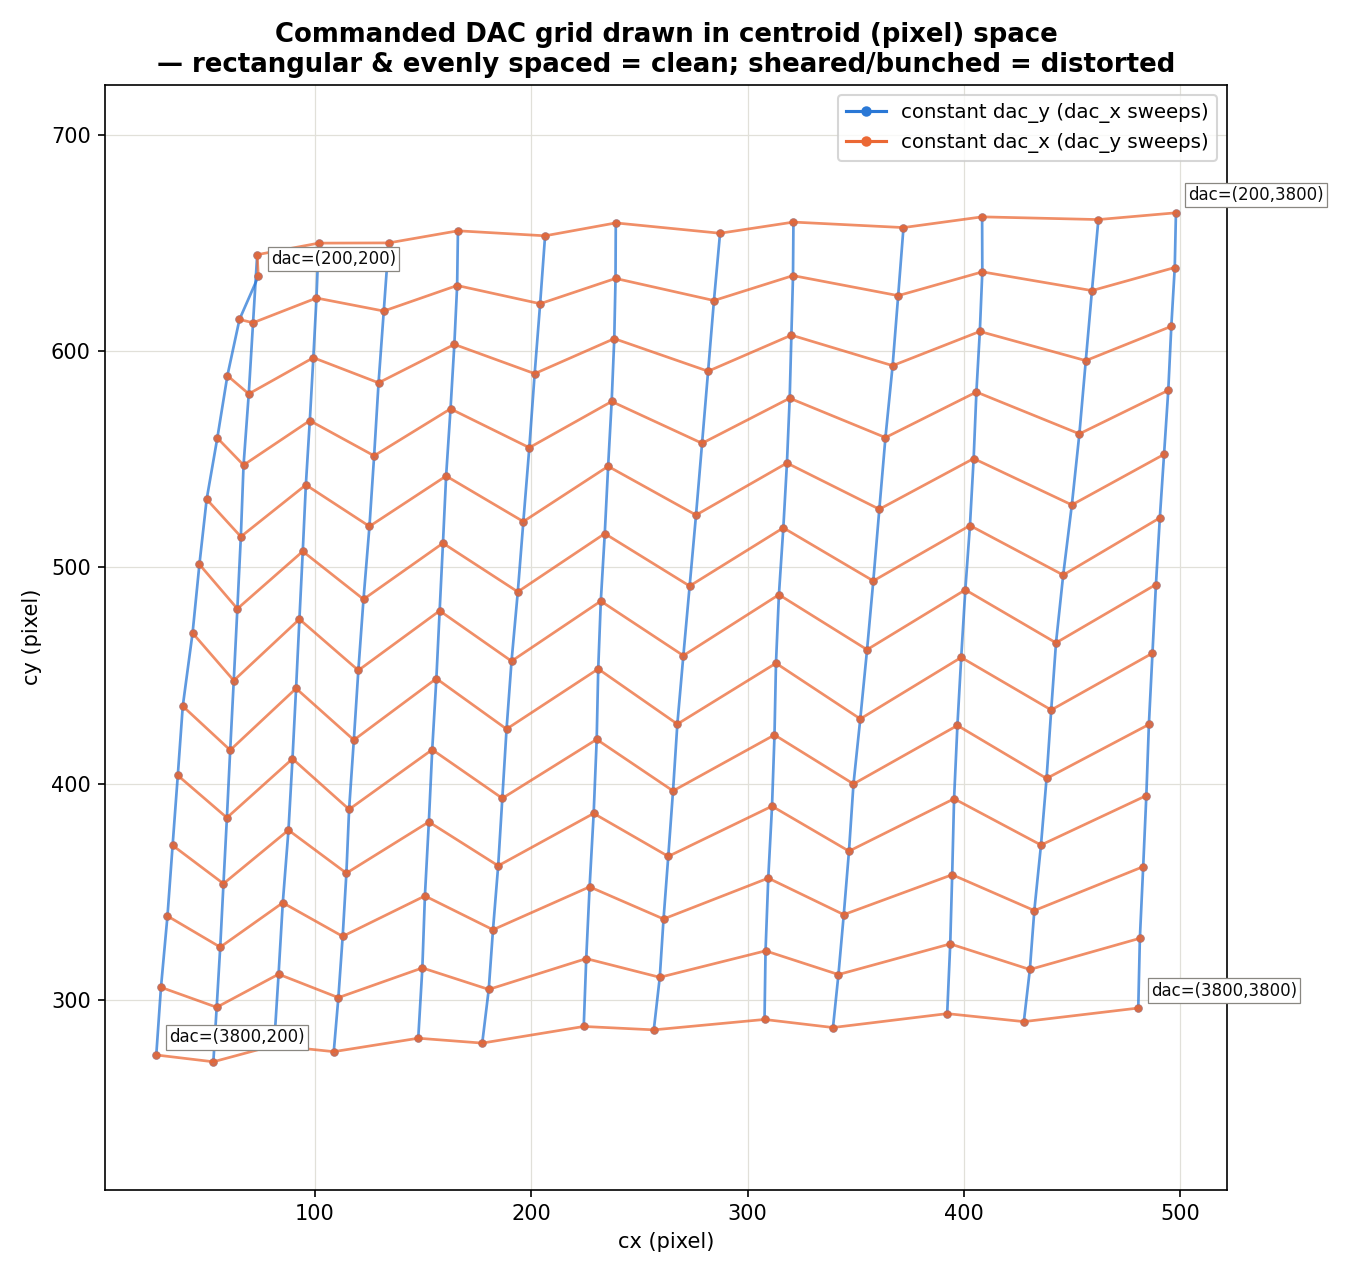
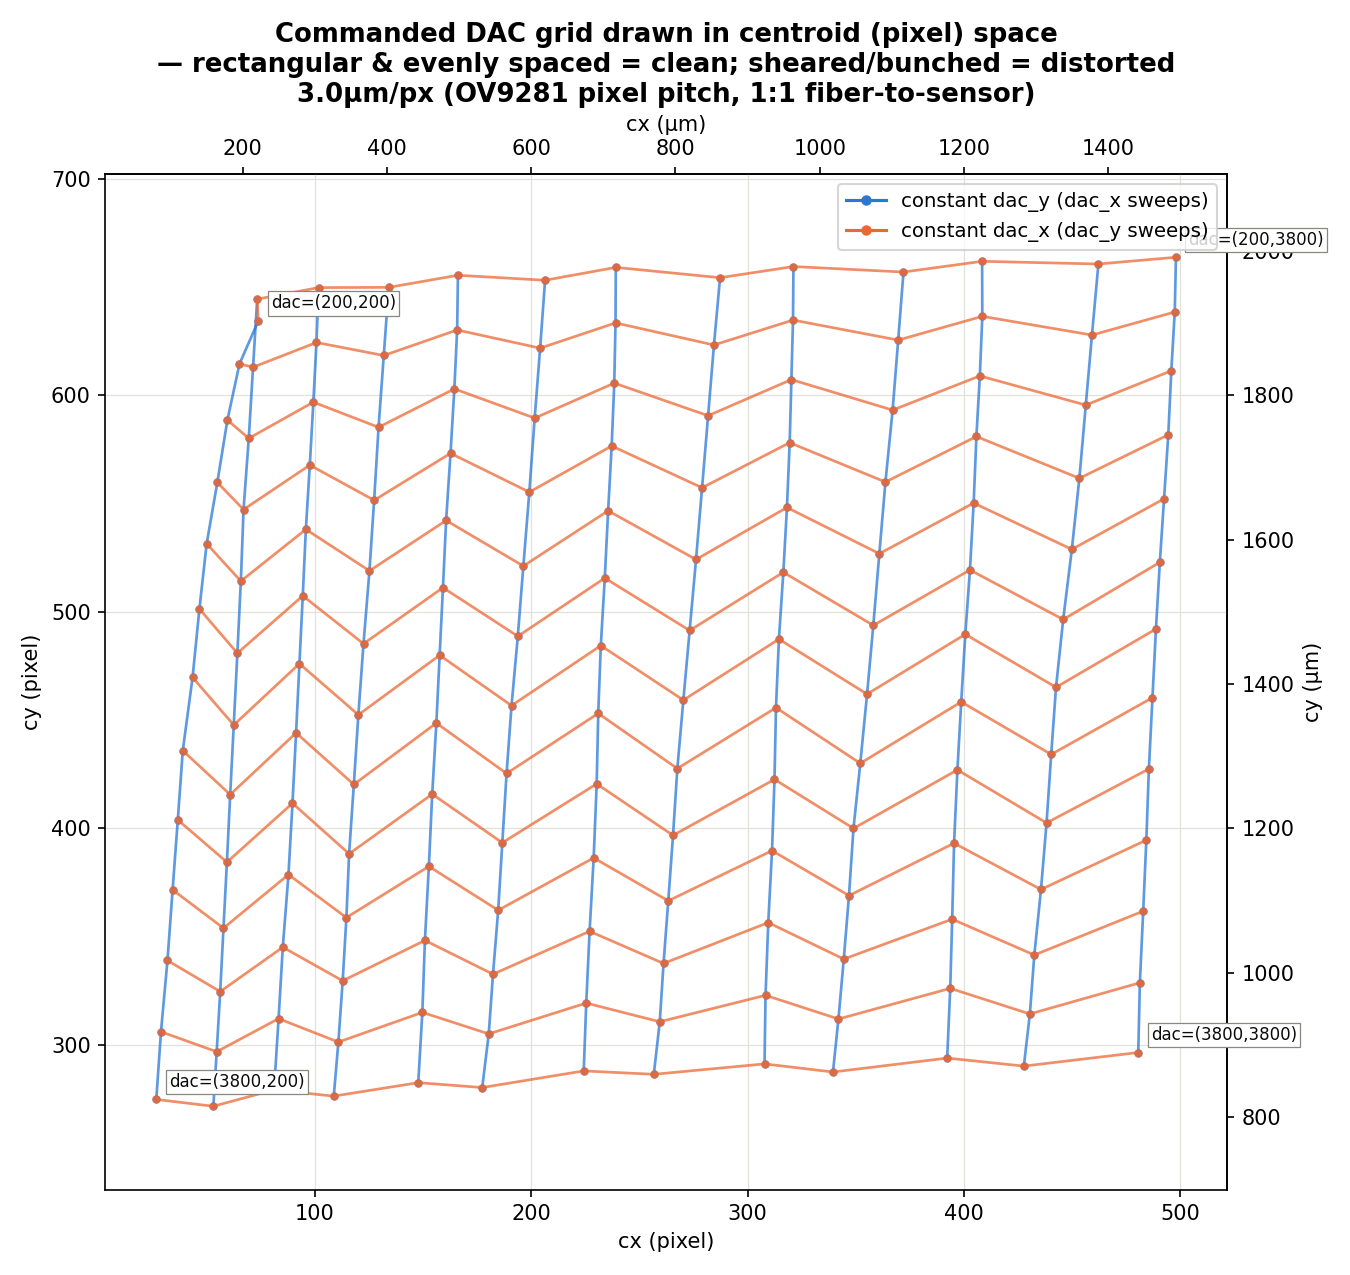
Add micron units to sine/calibration displacement plots and reports
MICRONS_PER_PIXEL = 3.0 (OV9281 pixel pitch, same constant already used
in fta_step_response_test.py) applies directly and uniformly to every
VCP-relayed x/y sample regardless of the Pi's capture mode -- the Pi-side
streamer already multiplies by v_bin before sending, so relayed
coordinates are always in native-pixel-equivalent units. Also 1:1 to real
fiber-tip motion (no external magnification).

Added to fta_sine_response_test_vcp.py's printed report, the sine trace/
summary plots (secondary um axes), and fta_calibration_grid_mesh.py
(secondary um axes + um in the travel printout). Regenerated the final
calibration mesh and both sine result plots with the new units.

diff --git a/fta_sine_response_test_vcp.py b/fta_sine_response_test_vcp.py
@@ -75,6 +75,22 @@ import numpy as np
 FTA_BAUD = 115200  # camera_centroid_receiver's USART2 rate, NOT the old
                     # "FTA Controller"'s 460800.
 
+MICRONS_PER_PIXEL = 3.0  # OV9281 pixel pitch, same constant/derivation as
+                          # fta_step_response_test.py: confirmed live via
+                          # Picamera2(0).camera_properties["UnitCellSize"]
+                          # = (3000, 3000)nm, not a datasheet guess.
+                          # Applies directly to every x/y sample here
+                          # without a separate binning correction: the Pi-
+                          # side streamer (camera_view_tool.py /
+                          # beam_position_streamer.py) already multiplies
+                          # its detected centroid by v_bin before sending
+                          # over I2C, so what arrives over the VCP relay
+                          # is already in pre-bin/native-pixel-equivalent
+                          # coordinates regardless of which capture mode
+                          # the Pi is actually running. Fiber-to-sensor
+                          # motion is 1:1 (no external magnification), so
+                          # this is also real fiber-tip displacement.
+
 TELEMETRY_RE = re.compile(
     r"^seq=\s*(\d+)\s+status=(\d+)\s+x=(-?\d+\.\d)\s+y=(-?\d+\.\d)\s+pkts=(\d+)\s+errs=(\d+)$")
 
@@ -346,17 +362,19 @@ def main():
     lag_ms_other = -lag_rad_other / w * 1000.0
 
     print(f"\n--- Driven axis ({driven_name}) ---")
-    print(f"fitted gain: {gain_driven:+.2f}px for {args.amplitude:+d} commanded DAC counts "
+    print(f"fitted gain: {gain_driven:+.2f}px ({gain_driven*MICRONS_PER_PIXEL:+.1f}um) for "
+          f"{args.amplitude:+d} commanded DAC counts "
           f"({'DAC up -> pixel up' if gain_driven > 0 else 'DAC up -> pixel down'})")
     print(f"lag: {lag_ms_driven:.1f}ms  ({lag_rad_driven * 180/math.pi:.1f} deg at {args.freq}Hz, "
           "relative to the fitted gain direction, not raw phase)")
-    print(f"offset: {off_driven:.2f}px")
+    print(f"offset: {off_driven:.2f}px ({off_driven*MICRONS_PER_PIXEL:.1f}um)")
 
     print(f"\n--- Cross-coupled axis ({other_name}) ---")
-    print(f"fitted gain: {gain_other:+.2f}px  ({100*abs(gain_other)/max(abs(gain_driven),1e-9):.1f}% "
+    print(f"fitted gain: {gain_other:+.2f}px ({gain_other*MICRONS_PER_PIXEL:+.1f}um)  "
+          f"({100*abs(gain_other)/max(abs(gain_driven),1e-9):.1f}% "
           f"of driven-axis magnitude, {'same' if gain_other*gain_driven > 0 else 'opposite'} sign)")
     print(f"lag: {lag_ms_other:.1f}ms")
-    print(f"offset: {off_other:.2f}px")
+    print(f"offset: {off_other:.2f}px ({off_other*MICRONS_PER_PIXEL:.1f}um)")
 
     # True displacement magnitude/direction, not just the driven axis's own
     # projection -- gain_driven alone underreports real motion whenever
@@ -371,7 +389,8 @@ def main():
     vector_mag = math.hypot(gain_x, gain_y)
     vector_angle_deg = math.degrees(math.atan2(gain_y, gain_x))
     print(f"\n--- True displacement vector (both axes combined) ---")
-    print(f"magnitude: {vector_mag:.2f}px  ({100*(vector_mag/max(abs(gain_driven),1e-9)-1):.1f}% "
+    print(f"magnitude: {vector_mag:.2f}px ({vector_mag*MICRONS_PER_PIXEL:.1f}um)  "
+          f"({100*(vector_mag/max(abs(gain_driven),1e-9)-1):.1f}% "
           f"more than the driven-axis-only number above)")
     print(f"direction: {vector_angle_deg:.1f}deg (atan2(y,x) in pixel space)")
 

diff --git a/fta_calibration_grid_mesh.py b/fta_calibration_grid_mesh.py
@@ -30,6 +30,21 @@ import matplotlib.pyplot as plt
 
 DEFAULT_CALIB_PATH = "results/fta_calibration_vcp_20260806T191230Z.npz"  # 13x13, 200-3800 step 300
 
+MICRONS_PER_PIXEL = 3.0  # OV9281 pixel pitch, same constant/derivation as
+                          # fta_sine_response_test_vcp.py. Applies directly
+                          # here even though every calibration sweep this
+                          # script has plotted was collected with the Pi's
+                          # camera in FULL-FRAME (v_bin=1) mode, not the
+                          # binned 640x200 mode used for the sine tests --
+                          # no adjustment needed either way, since the
+                          # Pi-side streamer always multiplies its detected
+                          # centroid by whatever v_bin is in effect before
+                          # sending (camera_view_tool.py /
+                          # beam_position_streamer.py), so the coordinates
+                          # here are already in native-pixel-equivalent
+                          # units regardless of capture mode. Also 1:1 to
+                          # real fiber-tip motion (no external magnification).
+
 ROW_COLOR = "#2a78d6"    # constant dac_y, dac_x varies
 COL_COLOR = "#eb6834"    # constant dac_x, dac_y varies
 MUTED = "#898781"
@@ -89,10 +104,20 @@ def main():
     ax.set_xlabel("cx (pixel)")
     ax.set_ylabel("cy (pixel)")
     ax.set_title("Commanded DAC grid drawn in centroid (pixel) space\n"
-                  "— rectangular & evenly spaced = clean; sheared/bunched = distorted",
+                  "— rectangular & evenly spaced = clean; sheared/bunched = distorted\n"
+                  "3.0µm/px (OV9281 pixel pitch, 1:1 fiber-to-sensor)",
                   fontsize=12.5, fontweight="bold")
     ax.grid(True, color="#e1e0d9", linewidth=0.6)
     ax.set_aspect("equal", adjustable="datalim")
+
+    sec_x = ax.secondary_xaxis(
+        "top",
+        functions=(lambda px: px * MICRONS_PER_PIXEL, lambda um: um / MICRONS_PER_PIXEL))
+    sec_x.set_xlabel("cx (µm)")
+    sec_y = ax.secondary_yaxis(
+        "right",
+        functions=(lambda px: px * MICRONS_PER_PIXEL, lambda um: um / MICRONS_PER_PIXEL))
+    sec_y.set_ylabel("cy (µm)")
 
     fig.tight_layout()
     fig.savefig(args.out_path)
@@ -109,7 +134,8 @@ def main():
         order = np.argsort(dac_x[mask])
         xs, ys = cx[mask][order], cy[mask][order]
         span = np.hypot(xs[-1] - xs[0], ys[-1] - ys[0])
-        print(f"  dac_y={int(y):5d}: total pixel-space travel across dac_x sweep = {span:7.1f}px")
+        print(f"  dac_y={int(y):5d}: total travel across dac_x sweep = {span:7.1f}px "
+              f"({span*MICRONS_PER_PIXEL:7.1f}um)")
 
     print("\nColumn extents (cx,cy) span per dac_x value, i.e. how far dac_y sweeps the point "
           "in pixel space at each dac_x:")
@@ -118,7 +144,8 @@ def main():
         order = np.argsort(dac_y[mask])
         xs, ys = cx[mask][order], cy[mask][order]
         span = np.hypot(xs[-1] - xs[0], ys[-1] - ys[0])
-        print(f"  dac_x={int(x):5d}: total pixel-space travel across dac_y sweep = {span:7.1f}px")
+        print(f"  dac_x={int(x):5d}: total travel across dac_y sweep = {span:7.1f}px "
+              f"({span*MICRONS_PER_PIXEL:7.1f}um)")
 
 
 if __name__ == "__main__":

diff --git a/fta_sine_response_plot.py b/fta_sine_response_plot.py
@@ -25,6 +25,13 @@ import matplotlib.pyplot as plt
 FREQS = [5, 10, 15, 20]
 FILES = [f"results/fta_sine_response_vcp_y_roi_{f}Hz.npz" for f in FREQS]
 
+MICRONS_PER_PIXEL = 3.0  # OV9281 pixel pitch, same constant/derivation as
+                          # fta_sine_response_test_vcp.py -- applies
+                          # directly to these streamed coordinates (already
+                          # pre-bin-equivalent) with no separate binning
+                          # correction, and 1:1 to real fiber-tip motion
+                          # since the optical path has no magnification.
+
 BLUE = "#2a78d6"
 DAC_COLOR = "#52514e"
 MUTED = "#898781"
@@ -33,8 +40,8 @@ GRID = "#e1e0d9"
 
 def plot_traces(runs):
     fig, axes = plt.subplots(
-        2, 4, figsize=(13.33, 5.6), dpi=200,
-        gridspec_kw={"height_ratios": [1, 2.4], "hspace": 0.12, "wspace": 0.30},
+        2, 4, figsize=(15.5, 5.6), dpi=200,
+        gridspec_kw={"height_ratios": [1, 2.4], "hspace": 0.12, "wspace": 0.55},
     )
     fig.patch.set_facecolor("white")
 
@@ -60,8 +67,15 @@ def plot_traces(runs):
         ax_px.set_xlabel("time (s)", fontsize=8.5, color=MUTED)
         if col == 0:
             ax_px.set_ylabel("cx (px)\n(driven by dac_y)", fontsize=8.5, color=MUTED)
+        sec = ax_px.secondary_yaxis(
+            "right",
+            functions=(lambda px: px * MICRONS_PER_PIXEL, lambda um: um / MICRONS_PER_PIXEL))
+        sec.tick_params(colors=MUTED, labelsize=8, length=3)
+        if col == 3:
+            sec.set_ylabel("cx (µm)", fontsize=8.5, color=MUTED)
 
-        subtitle = (f"|gain|: {run['vector_mag']:.1f}px  ·  "
+        subtitle = (f"|gain|: {run['vector_mag']:.1f}px "
+                    f"({run['vector_mag']*MICRONS_PER_PIXEL:.0f}µm)  ·  "
                     f"dir: {run['vector_angle_deg']:.1f}°")
         ax_px.text(0.02, 0.03, subtitle, transform=ax_px.transAxes, fontsize=7.8,
                    color=MUTED, va="bottom", ha="left",
@@ -71,8 +85,9 @@ def plot_traces(runs):
     cx_line = plt.Line2D([0], [0], color=BLUE, linewidth=1.3, label="measured cx")
     fig.legend(handles=[dac_line, cx_line], loc="upper center",
                bbox_to_anchor=(0.5, 1.05), ncol=2, frameon=False, fontsize=9.5)
-    fig.suptitle("dac_y → cx sine tracking, amplitude 400, ROI telemetry rate (~207Hz)",
-                 fontsize=12.5, fontweight="bold", y=1.16, color="#0b0b0b")
+    fig.suptitle("dac_y → cx sine tracking, amplitude 400, ROI telemetry rate (~207Hz)\n"
+                 "3.0µm/px (OV9281 pixel pitch, 1:1 fiber-to-sensor)",
+                 fontsize=12.5, fontweight="bold", y=1.20, color="#0b0b0b")
 
     out_png = "results/fta_sine_response_y_roi_traces.png"
     fig.savefig(out_png, bbox_inches="tight", facecolor="white")
@@ -95,6 +110,10 @@ def plot_summary(runs):
     ax_mag.set_ylabel("true displacement magnitude (px)")
     ax_mag.set_title("Gain vs. frequency")
     ax_mag.set_xticks(freqs)
+    sec_mag = ax_mag.secondary_yaxis(
+        "right",
+        functions=(lambda px: px * MICRONS_PER_PIXEL, lambda um: um / MICRONS_PER_PIXEL))
+    sec_mag.set_ylabel("true displacement magnitude (µm)")
 
     ax_ang.plot(freqs, angles, color="#eb6834", linewidth=2, marker="o", markersize=6)
     ax_ang.axhline(0, color=MUTED, linewidth=0.8, linestyle=(0, (2, 2)))

diff --git a/CLAUDE.md b/CLAUDE.md
@@ -2078,6 +2078,27 @@ visual style as the earlier slide-10 rotated-axis plots) and
 frequency, makes the flat-then-rises-at-20Hz shape and the pinned-near-0°
 direction easy to see at a glance).
 
+**Microns added** (2026-08-12): all pixel-based displacement/gain
+numbers going forward can be converted to real physical units via
+`MICRONS_PER_PIXEL = 3.0` (OV9281 pixel pitch, confirmed live via
+`Picamera2(0).camera_properties["UnitCellSize"]`, same constant already
+used in `fta_step_response_test.py`). This applies directly and
+uniformly to every VCP-relayed x/y sample this project produces,
+**regardless of which capture mode the Pi's camera is in** (full-frame
+or a binned windowed mode like 640x200) — the Pi-side streamer
+(`camera_view_tool.py`/`beam_position_streamer.py`) already multiplies
+its detected centroid by `v_bin` before sending over I2C, so what
+arrives over the relay is always in native/pre-bin-pixel-equivalent
+coordinates. No separate binning correction is ever needed on the
+laptop side. Also 1:1 to real fiber-tip displacement, since the optical
+path has no external magnification. Added to
+`fta_sine_response_test_vcp.py` (µm alongside px in the printed
+gain/lag/offset/vector report), `fta_sine_response_plot.py` (µm
+secondary axes), and `fta_calibration_grid_mesh.py` (µm secondary axes
++ µm in the row/column travel printout) — e.g. the final calibration's
+full grid spans ~1088-1124µm of travel per dac_x sweep and
+~1275-1363µm per dac_y sweep (`results/fta_calibration_grid_mesh_final.png`).
+
 **Next step**: implement the actual PID loop on the Nucleo (`cmd_set_mode`'s
 `closed_loop` branch is currently a deliberate stub, `ERR closed_loop not
 yet implemented` — nothing PID-related exists in firmware yet: no
